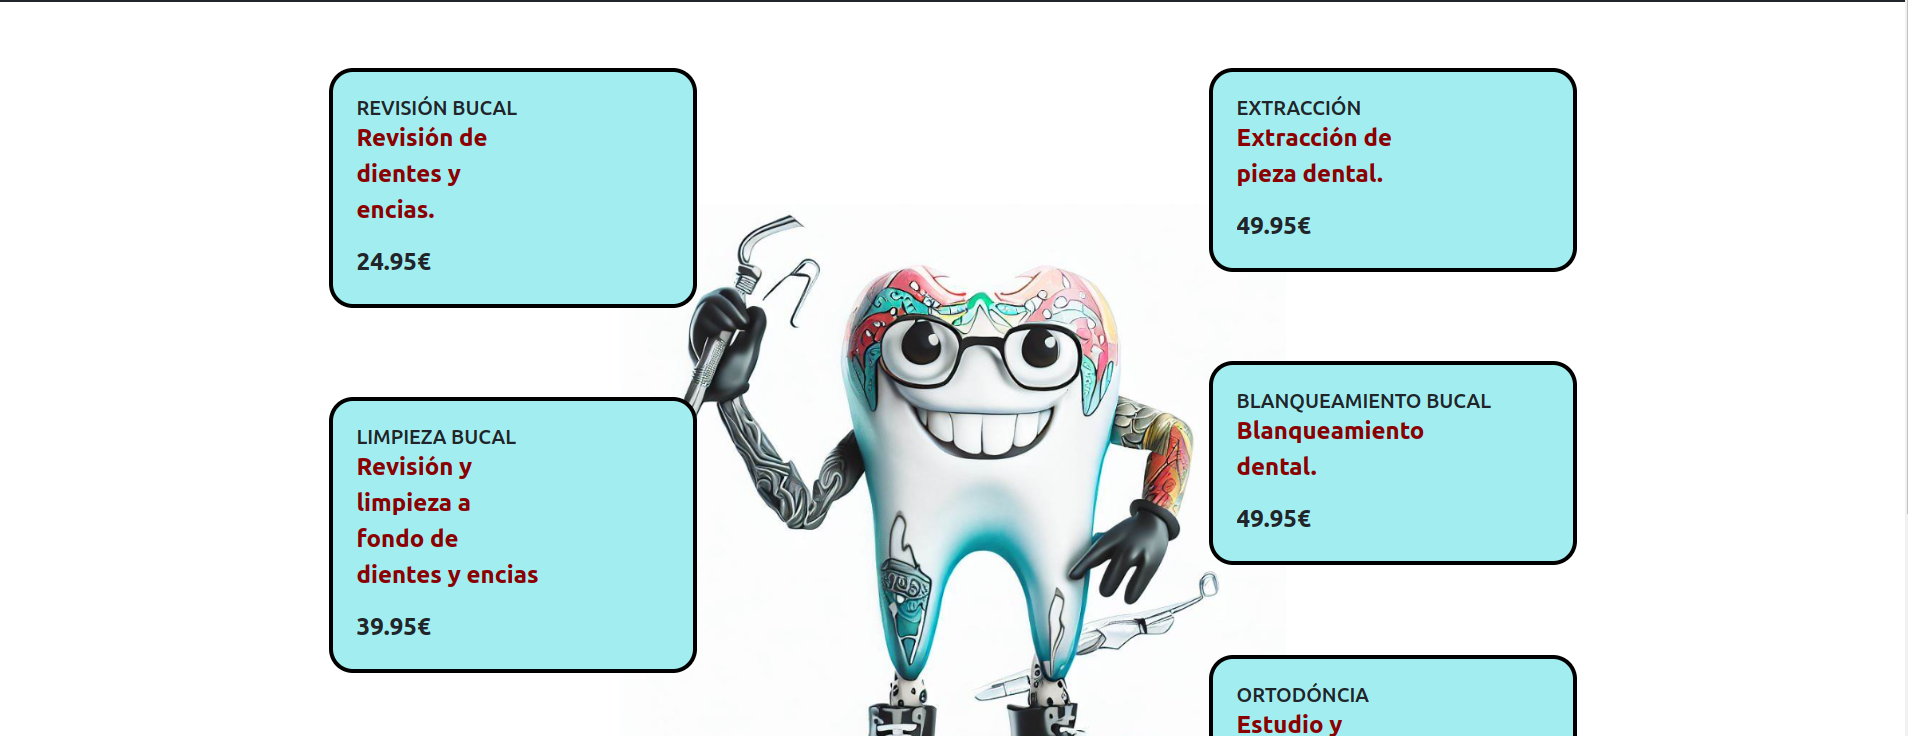
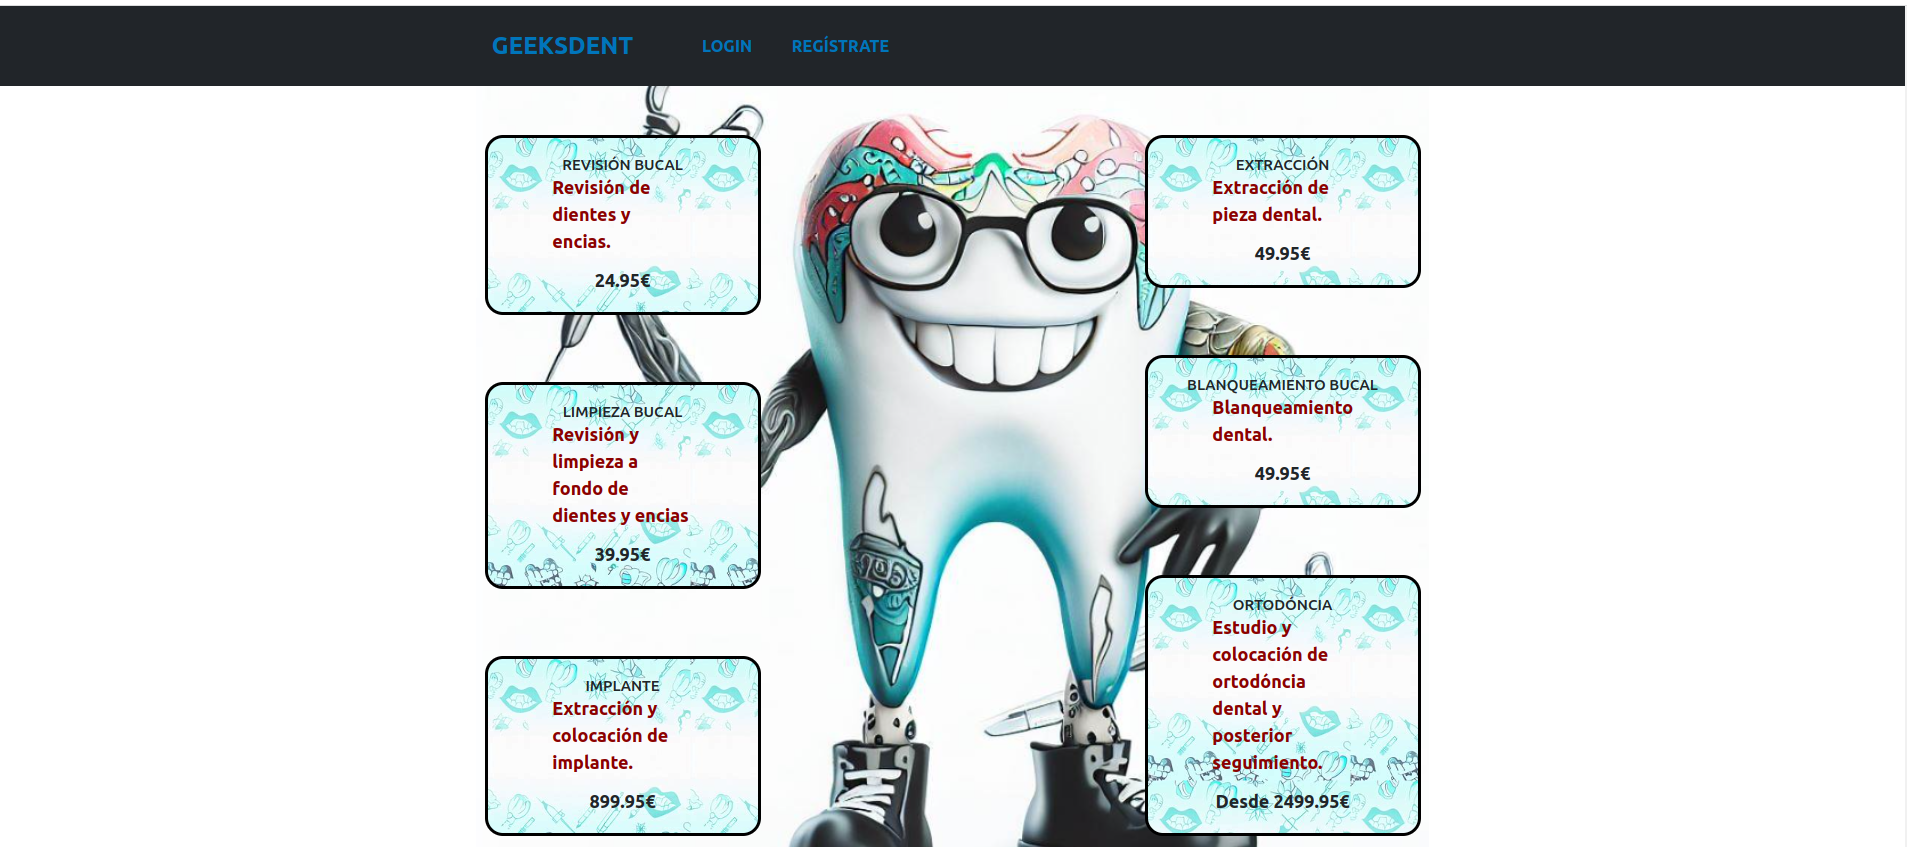
[update]Change of the Home view image updated in the README. Formatting of all codes. Removed all console.logs. // Cambio de la imagen de la vista Home actualizada en el README. Formateo de todos los codigos. Eliminados todos los console.log.

diff --git a/src/Pages/PedirCita/PedirCita.jsx b/src/Pages/PedirCita/PedirCita.jsx
@@ -15,7 +15,7 @@ export const PedirCita = () => {
   // Estado para manejar errores en el formulario
   const [error, setError] = useState("");
 
-  // Estado para mostrar el mensaje de éxito
+  // Estado para mostrar el mensaje de exito
   const [successMessage, setSuccessMessage] = useState("");
 
   // Estado para mostrar el mensaje de no citas disponibles
@@ -24,10 +24,10 @@ export const PedirCita = () => {
   // Estado local para almacenar las citas existentes
   const [appointments, setAppointments] = useState([]);
 
-  // Hook de enrutamiento para redireccionar después de enviar el formulario
+  // Hook de enrutamiento para redireccionar despues de enviar el formulario
   const navigate = useNavigate();
 
-  // Función para manejar el cambio de valor en los campos del formulario
+  // Funcion para manejar el cambio de valor en los campos del formulario
   const inputHandler = ({ target }) => {
     let { name, value } = target;
     setBody((prevState) => ({
@@ -36,7 +36,7 @@ export const PedirCita = () => {
     }));
   };
 
-  // Función para manejar el envío del formulario
+  // Funcion para manejar el envio del formulario
   const handleSubmit = (e) => {
     e.preventDefault();
 
@@ -56,7 +56,7 @@ export const PedirCita = () => {
       return;
     }
 
-    // Verifica si ya existe una cita para el médico y la fecha seleccionada
+    // Verifica si ya existe una cita para el Doctor y la fecha seleccionada
     const isAppointmentExist = appointments.find(
       (appointment) =>
         appointment.doctor_id === body.doctor_id &&
@@ -74,7 +74,7 @@ export const PedirCita = () => {
     setNoCitasDisponibles(true);
 
     try {
-      // Llama a la función de creación de cita y maneja la respuesta
+      // Llama a la funcion de creacion de cita y maneja la respuesta
       createAppointment(credentials.token, body)
         .then((res) => {
           if (res.success) {
@@ -92,15 +92,18 @@ export const PedirCita = () => {
 
   return (
     <div>
-      {/* Muestra el mensaje de error, si hubiera */}
+      {/* Muestra el mensaje de error si hubiera */}
       {error && <p>{error}</p>}
 
-      {/* Muestra el mensaje de éxito, si hubiera */}
+      {/* Muestra el mensaje de exito si hubiera */}
       {successMessage && <p>{successMessage}</p>}
 
       {/* Muestra el mensaje de no citas disponibles, si corresponde */}
       {noCitasDisponibles && (
-        <p>No hay citas disponibles en esa fecha y hora, por favor introduzca otra fecha para la cita.</p>
+        <p>
+          No hay citas disponibles en esa fecha y hora, por favor introduzca
+          otra fecha para la cita.
+        </p>
       )}
 
       {/* Formulario para crear la cita */}
@@ -116,7 +119,7 @@ export const PedirCita = () => {
           onChange={(e) => inputHandler(e)}
         />
 
-        {/* Input de selección de tratamiento */}
+        {/* Input de seleccion de tratamiento */}
         <select
           name="treatment_id"
           onChange={(e) => inputHandler(e)}
@@ -131,7 +134,7 @@ export const PedirCita = () => {
           <option value="6">Blanqueamiento dental</option>
         </select>
 
-        {/* Input de selección de doctor */}
+        {/* Input de seleccion de doctor */}
         <select
           name="doctor_id"
           onChange={(e) => inputHandler(e)}
@@ -151,7 +154,7 @@ export const PedirCita = () => {
           onChange={(e) => inputHandler(e)}
         ></textarea>
 
-        {/* Botón de envío */}
+        {/* Botón de envio */}
         <button type="submit">Crear cita</button>
       </form>
     </div>

diff --git a/src/Common/Header/Header.jsx b/src/Common/Header/Header.jsx
@@ -14,12 +14,12 @@ export const Header = () => {
   const userData = useSelector((state) => state.user);
   const roleId = userData.data.role_id;
 
-  const navigate = useNavigate()
+  const navigate = useNavigate();
 
   const handleLogout = () => {
     dispatch(logout());
-    navigate("/")
-  }
+    navigate("/");
+  };
 
   return (
     <div className="navbarComun">
@@ -33,23 +33,26 @@ export const Header = () => {
             <Nav className="navbar-links">
               {userData.credentials.token ? (
                 <>
-                <BotonCambiaVista path={"/PerfilUsuario"} name={"PERFIL"} />
-                <BotonCambiaVista path={"/PedirCita"} name={"PEDIR CITA"} />
-                <BotonCambiaVista path={"/MisCitas"} name={"MIS CITAS"} />
-                {roleId === 2 && (
-                  <BotonCambiaVista path={"/CitasDentista"} name={"AGENDA"} />
-                )}
+                  <BotonCambiaVista path={"/PerfilUsuario"} name={"PERFIL"} />
+                  <BotonCambiaVista path={"/PedirCita"} name={"PEDIR CITA"} />
+                  <BotonCambiaVista path={"/MisCitas"} name={"MIS CITAS"} />
+                  {roleId === 2 && (
+                    <BotonCambiaVista path={"/CitasDentista"} name={"AGENDA"} />
+                  )}
 
-                {roleId === 1 && (
-                  <BotonCambiaVista path={"/RegistrosAdmin"} name={"USUARIOS"} />
-                )}
-                <button onClick={handleLogout}>LOGOUT</button>
+                  {roleId === 1 && (
+                    <BotonCambiaVista
+                      path={"/RegistrosAdmin"}
+                      name={"USUARIOS"}
+                    />
+                  )}
+                  <button onClick={handleLogout}>LOGOUT</button>
                 </>
-                ) : (
-                  <>
+              ) : (
+                <>
                   <BotonCambiaVista path={"/Login"} name={"LOGIN"} />
                   <BotonCambiaVista path={"/Register"} name={"REGÍSTRATE"} />
-                  </>
+                </>
               )}
             </Nav>
           </Navbar.Collapse>
@@ -57,4 +60,4 @@ export const Header = () => {
       </Navbar>
     </div>
   );
-}
+};

diff --git a/src/Services/ApiCalls.js b/src/Services/ApiCalls.js
@@ -20,15 +20,11 @@ export const fetchUserData = async (token) => {
 };
 
 export const updateUserData = async (token, userData) => {
-  const res = await axios.put(
-    "http://localhost:3000/updateProfile",
-    userData,
-    {
-      headers: {
-        Authorization: `Bearer ${token}`,
-      },
-    }
-  );
+  const res = await axios.put("http://localhost:3000/updateProfile", userData, {
+    headers: {
+      Authorization: `Bearer ${token}`,
+    },
+  });
   return res.data;
 };
 
@@ -51,7 +47,6 @@ export const fetchUserAppointments = async (token) => {
       Authorization: `Bearer ${token}`,
     },
   });
-  console.log(res.data);
   return res.data.data;
 };
 
@@ -89,25 +84,26 @@ export const getAllProfiles = async (token) => {
 };
 
 export const deleteProfile = async (userId, token) => {
-  const res = await axios.delete(`http://localhost:3000/deleteProfile/${userId}`, {
-    headers: {
-      Authorization: `Bearer ${token}`,
-    },
-  });
-  return res.data;
-};
-
-// export const fetchDoctorById = async (doctorId) => {
-//   const res = await axios.get(`http://localhost:3000/doctor/${doctorId}`);
-//   return res.data;
-// };
-
-export const deleteAppointment = async (id, token) => {
-    const res = await axios.delete(`http://localhost:3000/deleteAppointment/${id}`, {
+  const res = await axios.delete(
+    `http://localhost:3000/deleteProfile/${userId}`,
+    {
       headers: {
         Authorization: `Bearer ${token}`,
       },
-    });
+    }
+  );
+  return res.data;
+};
 
-    return res.data;
+export const deleteAppointment = async (id, token) => {
+  const res = await axios.delete(
+    `http://localhost:3000/deleteAppointment/${id}`,
+    {
+      headers: {
+        Authorization: `Bearer ${token}`,
+      },
+    }
+  );
+
+  return res.data;
 };

diff --git a/src/Pages/MisCitas/MisCitas.css b/src/Pages/MisCitas/MisCitas.css
@@ -1,37 +1,37 @@
 .bodyVista {
-    min-height: 90vh;
-    background-image: url(../../../img/muelaTatoo.png);
-    background-repeat: no-repeat;
-    background-position: center;
-    background-size: 40%;
+  min-height: 90vh;
+  background-image: url(../../../img/muelaTatoo.png);
+  background-repeat: no-repeat;
+  background-position: center;
+  background-size: 40%;
 }
 
 .cardCita {
-    height: auto;
-    max-width: 50em;
-    margin-left: 1em;
-    padding: 2em;
+  height: auto;
+  max-width: 50em;
+  margin-left: 1em;
+  padding: 2em;
 }
 
 h1 {
-    margin-left: 3em;
+  margin-left: 3em;
 }
 .bodyVista button {
-    margin-bottom: 2em;
+  margin-bottom: 2em;
 }
 
 .botonEliminar {
-    margin-left: 1em;
+  margin-left: 1em;
 }
 
 .filterContainer {
-    width: 50%;
-    border: 0;
-    margin-left: 3em;
+  width: 50%;
+  border: 0;
+  margin-left: 3em;
 }
 
 #filterDate {
-    width: 100%;
-    color: darkred;
-    border: 0.15em solid #0075bb;
+  width: 100%;
+  color: darkred;
+  border: 0.15em solid #0075bb;
 }
